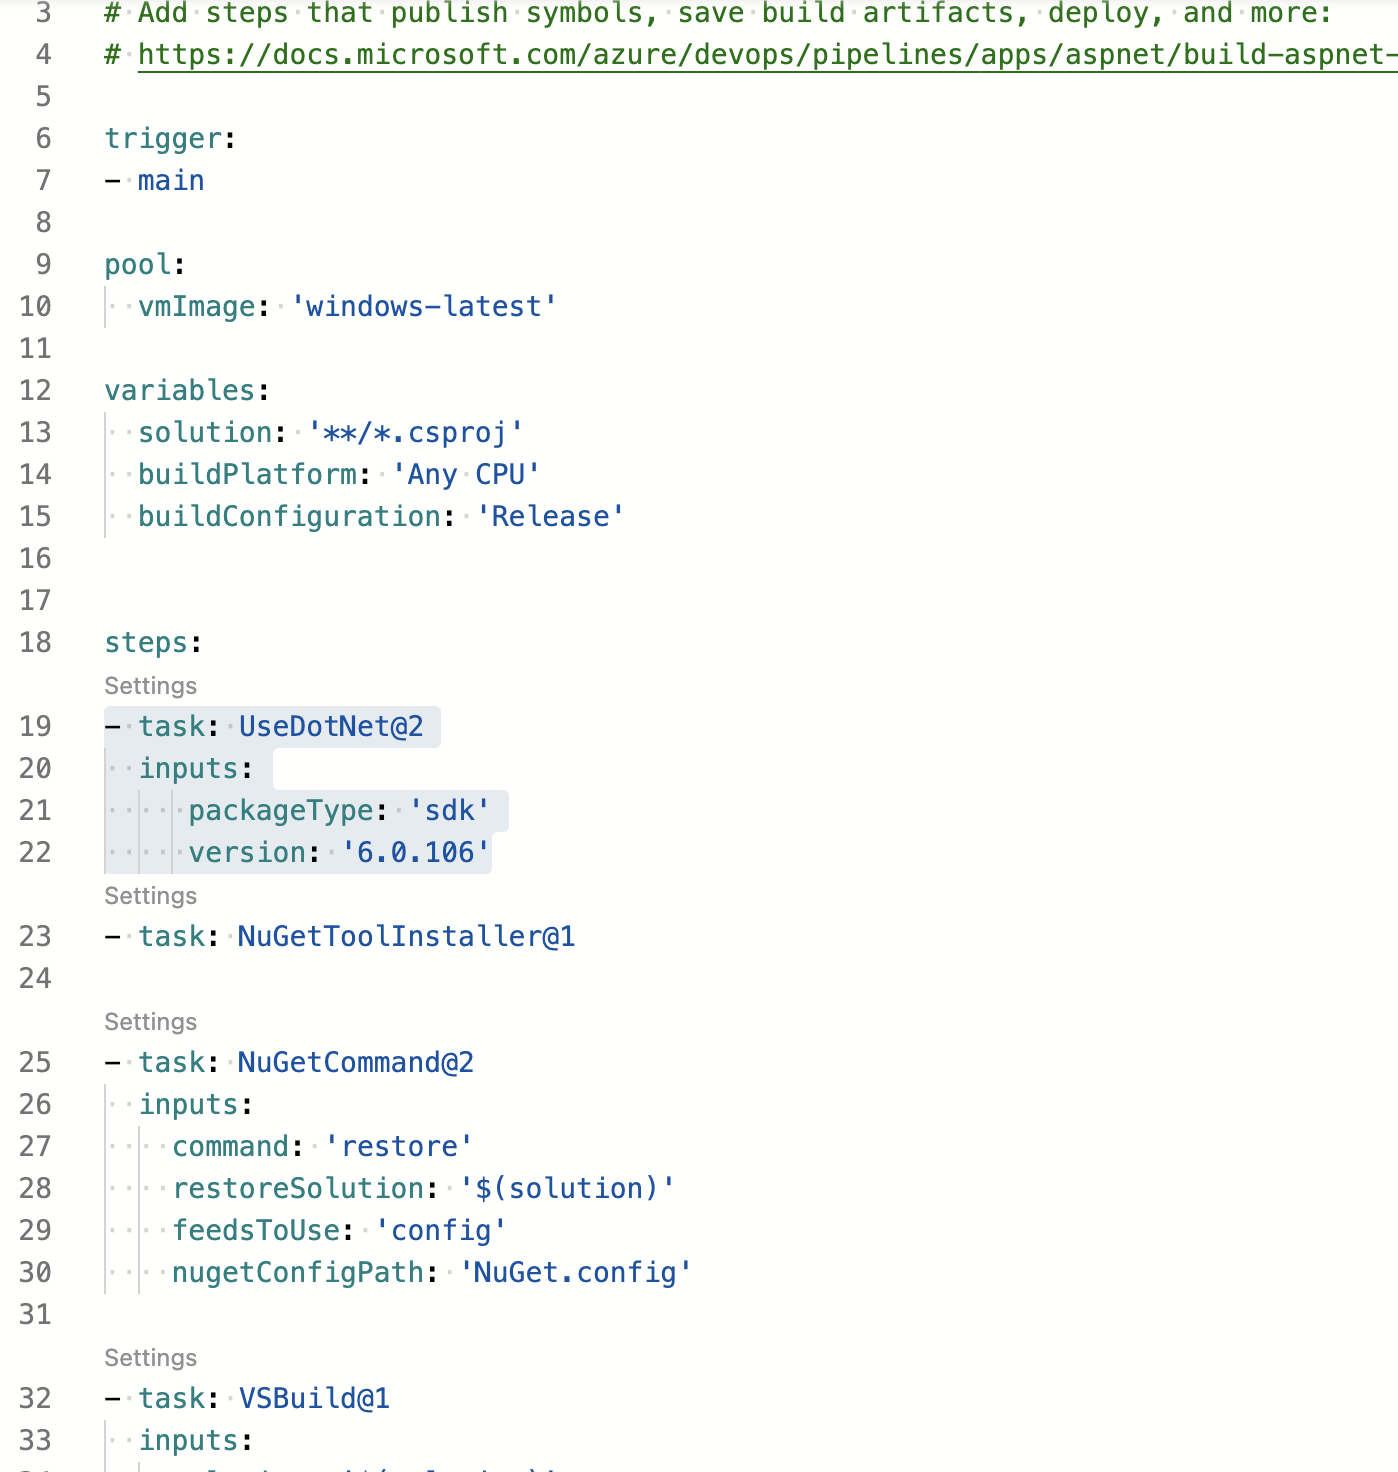
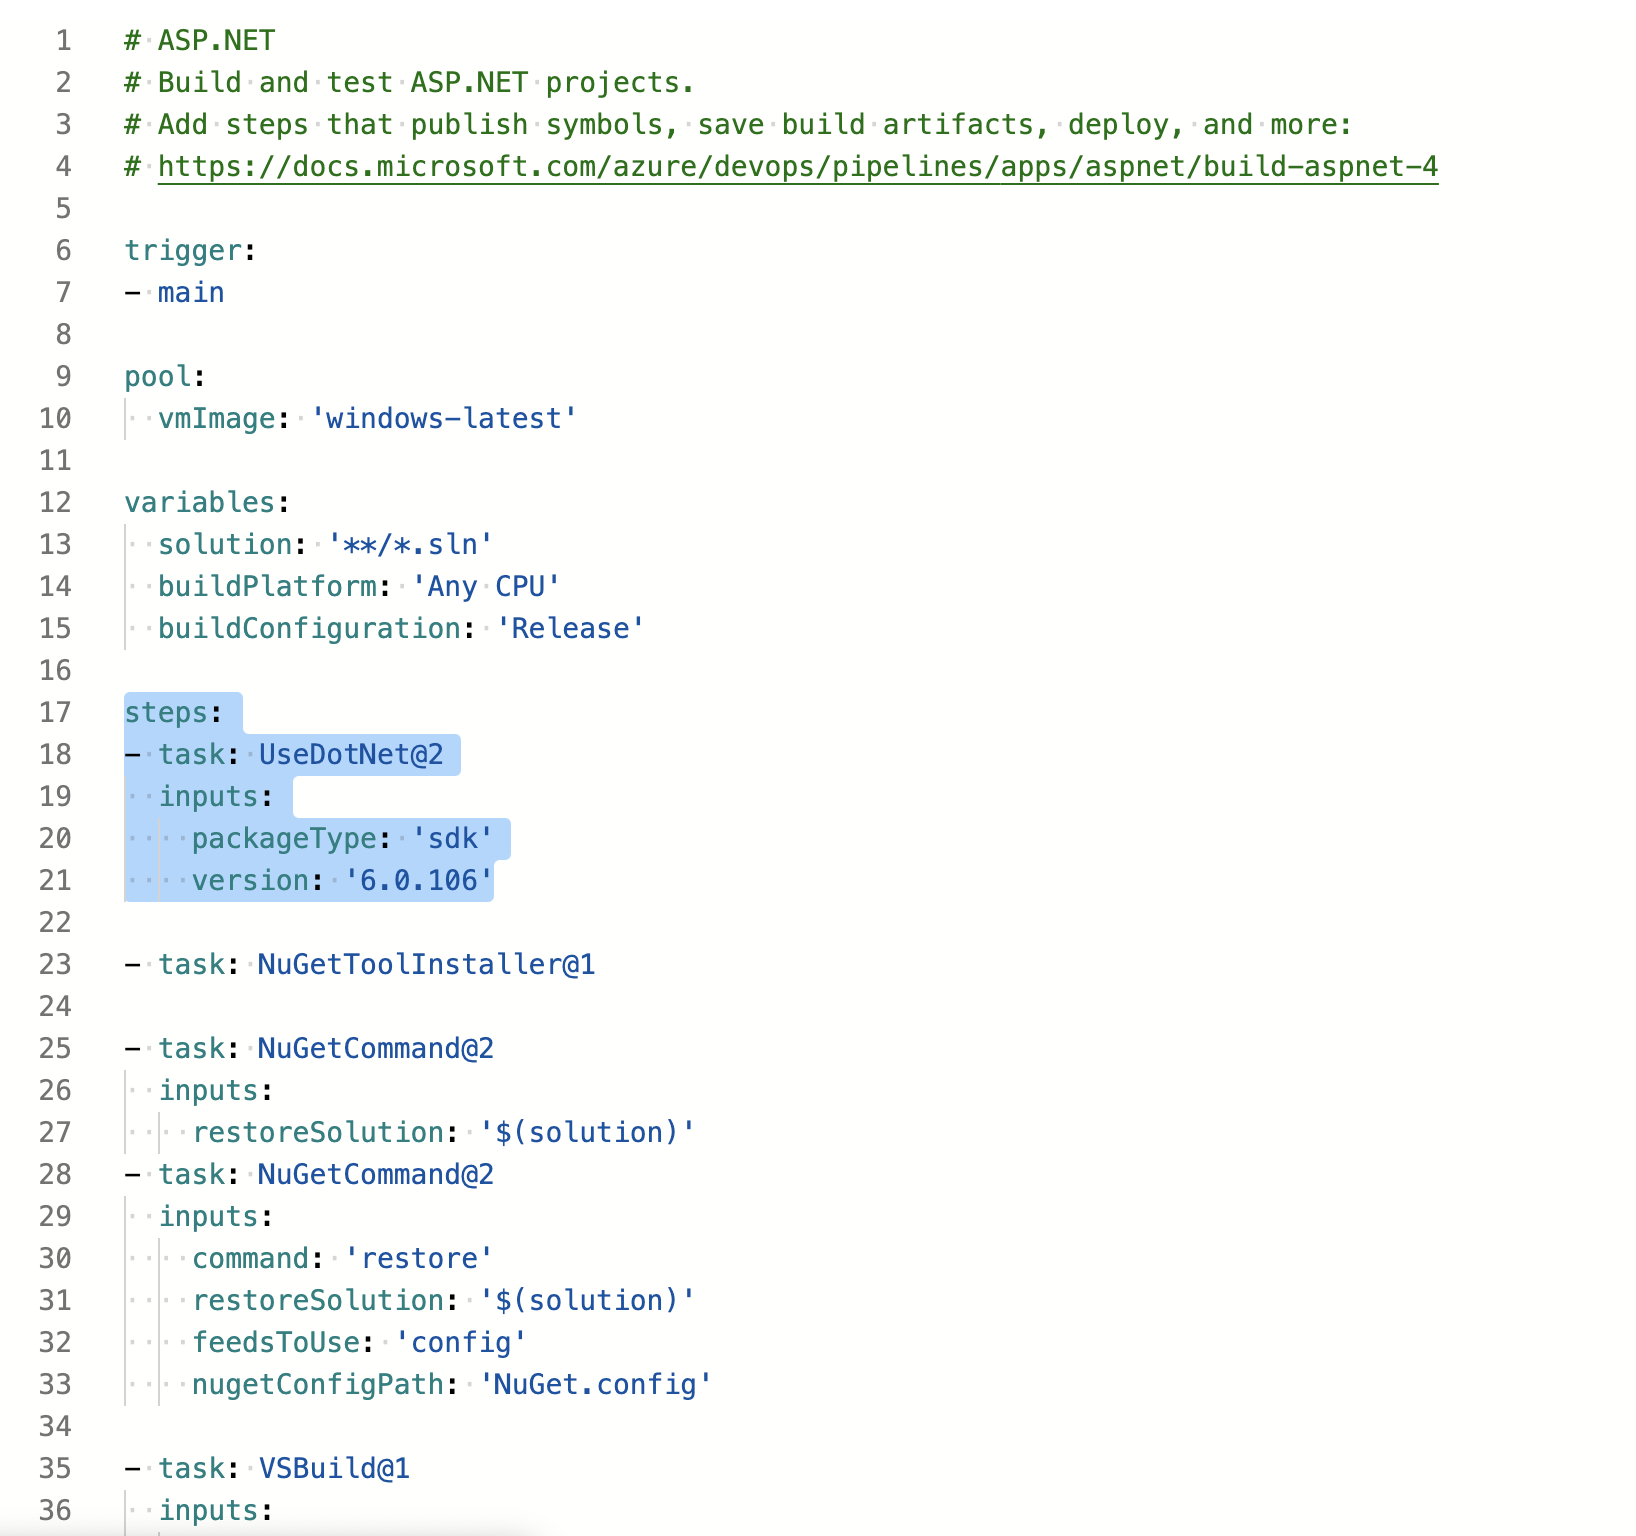
added pipeline

Changed region(s): [[0.0, 0.0, 1.0, 1.0], [0.2153, 0.1875, 0.3999, 0.2188]]

diff --git a/docs/en/Deploy-azure-app-service.md b/docs/en/Deploy-azure-app-service.md
@@ -185,8 +185,61 @@ git push
         PathtoPublish: '$(build.artifactstagingdirectory)'
         ArtifactName: '$(Parameters.ArtifactName)'
       condition: succeededOrFailed()
-      ```
+    ```
 ![azdevops-4](images/azdevops-4.png)
+
+```
+# ASP.NET
+# Build and test ASP.NET projects.
+# Add steps that publish symbols, save build artifacts, deploy, and more:
+# https://docs.microsoft.com/azure/devops/pipelines/apps/aspnet/build-aspnet-4
+
+trigger:
+- main
+
+pool:
+  vmImage: 'windows-latest'
+
+variables:
+  solution: '**/*.sln'
+  buildPlatform: 'Any CPU'
+  buildConfiguration: 'Release'
+
+steps:
+- task: UseDotNet@2
+  inputs:
+    packageType: 'sdk'
+    version: '6.0.106'
+
+- task: NuGetToolInstaller@1
+
+- task: NuGetCommand@2
+  inputs:
+    command: 'restore'
+    restoreSolution: '$(solution)'
+    feedsToUse: 'config'
+    nugetConfigPath: 'NuGet.config'
+
+- task: VSBuild@1
+  inputs:
+    solution: '$(solution)'
+    msbuildArgs: '/p:DeployOnBuild=true /p:WebPublishMethod=Package /p:PackageAsSingleFile=true /p:SkipInvalidConfigurations=true /p:PackageLocation="$(build.artifactStagingDirectory)"'
+    platform: '$(buildPlatform)'
+    configuration: '$(buildConfiguration)'
+
+- task: VSTest@2
+  inputs:
+    platform: '$(buildPlatform)'
+    configuration: '$(buildConfiguration)'
+
+- task: PublishBuildArtifacts@1
+  displayName: 'Publish Artifact'
+  inputs:
+    PathtoPublish: '$(build.artifactstagingdirectory)'
+    ArtifactName: '$(Parameters.ArtifactName)'
+    publishLocation: 'Container'
+  condition: succeededOrFailed()
+```
 
 * Click on **Save & queue** in the top menu. Click on **Save & queue** again and click **Save an run** to run the Build pipeline
 
